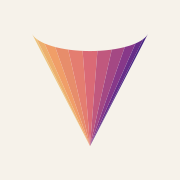
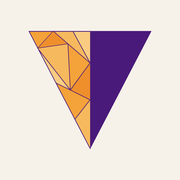
Bring back the faceted TAISI triangle as the mark
Joseph wanted to stay close to the original logo rather than the gradient
cone. The mark is the original purple triangle redrawn: the left half is
broken into gold facets with thin aubergine seams, and a hairline of the
same weight runs round the edge. Nav, footer, favicon, Apple icon, social
preview and the downloadable SVG and PNG all use it. LogoSpin still draws
the old cone and only appears on /design-system.

Changed region(s): [[0.1389, 0.1667, 0.8611, 0.8333]]

diff --git a/src/components/Logo.tsx b/src/components/Logo.tsx
@@ -1,29 +1,38 @@
-/* The TAISI mark and lockup, from "TAISI Web Design System v2".
+/* The TAISI mark and lockup.
 
-   The mark is the logo cone seen side on: eleven bands fanning from a point,
-   gold on the left to aubergine on the right, cut off by the ellipse of the
-   cone's rim. It is drawn once as a symbol in <LogoSprite /> (rendered by the
-   root layout) and every mark on the page is a <use> of it, so the gradient
-   geometry ships once however many logos there are. */
+   The mark is the original TAISI triangle, redrawn: an aubergine triangle
+   whose left half is broken into gold facets, with thin aubergine seams
+   between the facets and a matching hairline round the edge. It is drawn
+   once as a symbol in <LogoSprite /> (rendered by the root layout) and every
+   mark on the page is a <use> of it, so the geometry ships once however many
+   logos there are. public/brand/taisi-mark.svg is the same drawing. */
 
-const BANDS = [
-  ["-25,-45.14 -19.19,-38.65 50,100", "oklch(0.84 0.1 80)"],
-  ["-19.19,-38.65 -8.98,-32.89 50,100", "oklch(0.8 0.11 67)"],
-  ["-8.98,-32.89 4.97,-28.21 50,100", "oklch(0.77 0.12 54)"],
-  ["4.97,-28.21 21.79,-24.92 50,100", "oklch(0.73 0.12 41)"],
-  ["21.79,-24.92 40.39,-23.22 50,100", "oklch(0.7 0.13 28)"],
-  ["40.39,-23.22 59.61,-23.22 50,100", "oklch(0.66 0.14 15)"],
-  ["59.61,-23.22 78.21,-24.92 50,100", "oklch(0.6 0.14 -1)"],
-  ["78.21,-24.92 95.03,-28.21 50,100", "oklch(0.54 0.14 -17)"],
-  ["95.03,-28.21 108.98,-32.89 50,100", "oklch(0.48 0.15 -33)"],
-  ["108.98,-32.89 119.19,-38.65 50,100", "oklch(0.42 0.15 -49)"],
-  ["119.19,-38.65 125,-45.14 50,100", "oklch(0.36 0.15 -65)"],
+// Each facet of the gold half: its corners and its gold.
+const FACETS = [
+  ["0,0 20,0 7.29,14", "#F4A23A"],
+  ["20,0 32,10.4 7.29,14", "#EE8F2C"],
+  ["20,0 36,0 50,26", "#F7B95E"],
+  ["36,0 50,0 50,26", "#F9CC82"],
+  ["7.29,14 32,10.4 34,48.04", "#F7B95E"],
+  ["32,10.4 50,26 34,48.04", "#F4A23A"],
+  ["7.29,14 34,48.04 21.88,42", "#F9CC82"],
+  ["50,26 50,56 34,48.04", "#EE8F2C"],
+  ["21.88,42 34,48.04 50,56 37.5,72", "#F4A23A"],
+  ["37.5,72 50,56 50,96", "#F7B95E"],
 ] as const;
+// The lines between the gold facets.
+const SEAMS =
+  "M20,0L7.29,14M20,0L50,26M32,10.4L7.29,14M36,0L50,26M32,10.4L34,48.04M34,48.04L7.29,14M50,26L34,48.04M21.88,42L50,56M50,56L37.5,72";
+const PURPLE = "#4A1A7A";
+const TRIANGLE = "M0,0H100L50,96Z";
+// Seams and edge are drawn at one weight. The edge is stroked at twice that
+// and clipped to the triangle, so the half that shows matches the seams.
+const SEAM = 0.5;
 
 const MARK_ID = "taisi-mark";
-const VIEWBOX = "-1 2.24 102 98.76";
+const VIEWBOX = "0 0 100 96";
 // Width over height of the mark's viewBox.
-const MARK_RATIO = 102 / 98.76;
+const MARK_RATIO = 100 / 96;
 
 /** The shared definition every <TaisiMark /> points at. Render it once. */
 export function LogoSprite() {
@@ -31,13 +40,18 @@ export function LogoSprite() {
     <svg width="0" height="0" style={{ position: "absolute" }} aria-hidden="true" focusable="false">
       <defs>
         <clipPath id={`${MARK_ID}-clip`}>
-          <path d="M50,100L0,3.24A50.83,18 0 0 0 100,3.24Z" />
+          <path d={TRIANGLE} />
         </clipPath>
         <symbol id={MARK_ID} viewBox={VIEWBOX}>
           <g clipPath={`url(#${MARK_ID}-clip)`}>
-            {BANDS.map(([points, fill]) => (
-              <polygon key={points} points={points} fill={fill} />
+            <path d="M50,0H100L50,96Z" fill={PURPLE} stroke={PURPLE} strokeWidth={0.3} />
+            {/* The matching stroke on each facet closes the hairline gaps
+                anti-aliasing leaves between neighbouring fills. */}
+            {FACETS.map(([points, fill]) => (
+              <polygon key={points} points={points} fill={fill} stroke={fill} strokeWidth={0.3} />
             ))}
+            <path d={SEAMS} fill="none" stroke={PURPLE} strokeWidth={SEAM} strokeLinecap="round" />
+            <path d={TRIANGLE} fill="none" stroke={PURPLE} strokeWidth={SEAM * 2} strokeLinejoin="round" />
           </g>
         </symbol>
       </defs>

diff --git a/src/app/opengraph-image.tsx b/src/app/opengraph-image.tsx
@@ -43,7 +43,7 @@ export default async function Image() {
       >
         <div style={{ display: "flex", alignItems: "center" }}>
           {/* eslint-disable-next-line @next/next/no-img-element */}
-          <img src={markSrc} width={Math.round((h * 102) / 98.76)} height={h} alt="" />
+          <img src={markSrc} width={Math.round((h * 100) / 96)} height={h} alt="" />
           <div style={{ width: h * 0.4, display: "flex" }} />
           <div style={{ display: "flex", flexDirection: "column", gap: h * 0.17 }}>
             <span style={{ fontWeight: 300, fontSize: h * 0.39, letterSpacing: "0.26em", lineHeight: 0.75 }}>

diff --git a/src/app/design-system/page.tsx b/src/app/design-system/page.tsx
@@ -125,7 +125,7 @@ export default function DesignSystem() {
               </div>
             ))}
           </div>
-          <Sub title="The mark’s eleven bands · band-1 to band-11">
+          <Sub title="The colour ramp · band-1 to band-11">
             <div className="flex h-16 rounded-lg overflow-hidden">
               {bands.map((b) => (
                 <div key={b} className="flex-1" style={{ background: b }} />

diff --git a/CLAUDE.md b/CLAUDE.md
@@ -32,11 +32,11 @@ Next.js 16 app (App Router) with Tailwind CSS v4. Deployed on Vercel.
 
 **Local secrets / testing:** The Airtable PAT for local dev lives at `~/.claude/taisi-secrets.env` (machine-level, never committed). Copy `AIRTABLE_PAT` from there into a gitignored `.env.local` at the repo root before running `npm run dev` against Airtable. The PAT also has Airtable metadata (schema) read/write, so you can list bases/tables via `https://api.airtable.com/v0/meta/bases`.
 
-**Layout:** `layout.tsx` renders shared `Nav` and `Footer` and the `LogoSprite` (the mark is defined once as an SVG symbol; `TaisiMark` and `Lockup` in `src/components/Logo.tsx` point at it). `AnnouncementBar` is not currently rendered; add it back above `Nav` in the layout's sticky wrapper when there is something to announce. Nav is a client component with a mobile menu. The footer carries the aubergine "Interested in the Winter Fellowship?" block (hidden on `/interest` and `/september-fellowship`, which are themselves the next step), the logo, page links and contact email. There is no mailing list signup in the footer; the only signup is the `?signup=1` dialog opened by the QR codes. Discord links render only once `DISCORD_URL` is set. Every page except the home page opens with `<PageHero title object>` (`src/components/PageHero.tsx`), so titles start at the same height and heroes share one object size; form pages put their form inside it.
+**Layout:** `layout.tsx` renders shared `Nav` and `Footer` and the `LogoSprite` (the mark, the original faceted TAISI triangle redrawn, is defined once as an SVG symbol; `TaisiMark` and `Lockup` in `src/components/Logo.tsx` point at it). `AnnouncementBar` is not currently rendered; add it back above `Nav` in the layout's sticky wrapper when there is something to announce. Nav is a client component with a mobile menu. The footer carries the aubergine "Interested in the Winter Fellowship?" block (hidden on `/interest` and `/september-fellowship`, which are themselves the next step), the logo, page links and contact email. There is no mailing list signup in the footer; the only signup is the `?signup=1` dialog opened by the QR codes. Discord links render only once `DISCORD_URL` is set. Every page except the home page opens with `<PageHero title object>` (`src/components/PageHero.tsx`), so titles start at the same height and heroes share one object size; form pages put their form inside it.
 
-**Styling:** The design comes from Claude Design ("TAISI Homepage v2" and "TAISI Web Design System v2"). Tailwind v4 with tokens in `globals.css` via `@theme`: `ink` (aubergine, type and lines), `mute` (grey body copy), `page` (white), `paper`, `cream`, `gold` (only ever on aubergine, never text on light grounds), `ember` (link hover), `rose` (errors), and `band-1` to `band-11` (the mark's ramp). Fonts: Jost Light for display (`font-display`), Geist for body. Use the component classes in globals.css rather than restyling from scratch: type is `t-display` (page titles) > `t-section` (section headings) > `t-h2` > `t-h3` > `t-h4`, plus `t-lead`, `t-quote`, `t-body`, `t-name`/`t-role` (people), `t-small`, `t-label`, and `.hang` for quotes that open with a mark. Components: `.link`, `.container-site`, `.btn` + `.btn-ink`/`.btn-ink-solid`/`.btn-gold`/`.btn-cream`, `.btn-text`, `.card`, `.cell-grid`, `.tag`, `.notice`, `.form-input`, and `.on-dark` for aubergine grounds. Page sections use `<Section object title>` (`src/components/Section.tsx`). Icons are outlined at a 1.75 stroke. Tailwind's default transition is set to the design's 200ms standard curve, so a bare `transition-colors` matches.
+**Styling:** The design comes from Claude Design ("TAISI Homepage v2" and "TAISI Web Design System v2"). Tailwind v4 with tokens in `globals.css` via `@theme`: `ink` (aubergine, type and lines), `mute` (grey body copy), `page` (white), `paper`, `cream`, `gold` (only ever on aubergine, never text on light grounds), `ember` (link hover), `rose` (errors), and `band-1` to `band-11` (the colour ramp the geometric objects use). Fonts: Jost Light for display (`font-display`), Geist for body. Use the component classes in globals.css rather than restyling from scratch: type is `t-display` (page titles) > `t-section` (section headings) > `t-h2` > `t-h3` > `t-h4`, plus `t-lead`, `t-quote`, `t-body`, `t-name`/`t-role` (people), `t-small`, `t-label`, and `.hang` for quotes that open with a mark. Components: `.link`, `.container-site`, `.btn` + `.btn-ink`/`.btn-ink-solid`/`.btn-gold`/`.btn-cream`, `.btn-text`, `.card`, `.cell-grid`, `.tag`, `.notice`, `.form-input`, and `.on-dark` for aubergine grounds. Page sections use `<Section object title>` (`src/components/Section.tsx`). Icons are outlined at a 1.75 stroke. Tailwind's default transition is set to the design's 200ms standard curve, so a bare `transition-colors` matches.
 
-**Motion:** The geometric objects (`src/components/geo/`) are the site's motion. `geo-lib.jsx` is ported from the design file as plain JS so it can be diffed against later revisions; only the kinds in `objects.ts` (the approved object bank) may be used. `<GeoObject kind play align>`: `"view"` plays once per visit, only after the reader has scrolled and the object has risen well into view (section icons); `"loop"` ping-pongs while on screen (page heroes); `"mount"` plays on load (form pages). `GeoObject` scales every object so its finished pose is the same visual size, and `align="start"` pins it to the box's bottom-left so a section icon sits on the heading's left edge. No object appears more than once across the whole site (the design system page aside); Shards is currently the only unused one, so a new section takes that or frees one up. Objects show their opening frame, usually an outline, until they play. Section icons line up with the ink of the heading's first letter, not its box (`SectionIcon` measures it). `LogoSpin` is the logo animation. Text entrances are quiet: `.intro-rise` and `.intro-fade` on load. Everything, objects included, is switched off under `prefers-reduced-motion`.
+**Motion:** The geometric objects (`src/components/geo/`) are the site's motion. `geo-lib.jsx` is ported from the design file as plain JS so it can be diffed against later revisions; only the kinds in `objects.ts` (the approved object bank) may be used. `<GeoObject kind play align>`: `"view"` plays once per visit, only after the reader has scrolled and the object has risen well into view (section icons); `"loop"` ping-pongs while on screen (page heroes); `"mount"` plays on load (form pages). `GeoObject` scales every object so its finished pose is the same visual size, and `align="start"` pins it to the box's bottom-left so a section icon sits on the heading's left edge. No object appears more than once across the whole site (the design system page aside); Shards is currently the only unused one, so a new section takes that or frees one up. Objects show their opening frame, usually an outline, until they play. Section icons line up with the ink of the heading's first letter, not its box (`SectionIcon` measures it). `LogoSpin` is the logo animation, built for the earlier cone mark and shown only on `/design-system`. Text entrances are quiet: `.intro-rise` and `.intro-fade` on load. Everything, objects included, is switched off under `prefers-reduced-motion`.
 
 **History note:** One-off program tooling (application/availability/acceptance forms, participant surveys, ops scripts for offers and rejections) was removed in the August 2026 cleanup. Check git history if a new cohort needs something similar again.
 
